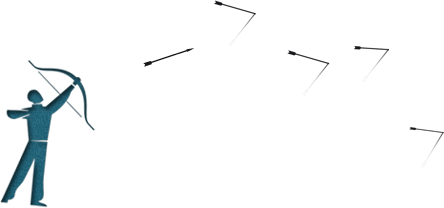
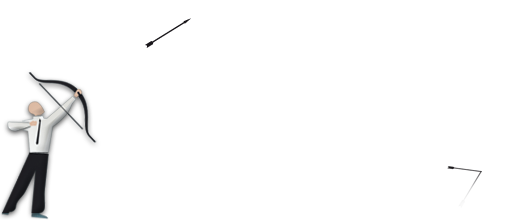
Added new man_and_arrows image in Atreve-te theme

diff --git a/site_files/app/themes/sass/themes/atrevete/frontend-structure.sass b/site_files/app/themes/sass/themes/atrevete/frontend-structure.sass
@@ -60,9 +60,9 @@ div#bg-top-front
 div#man-and-arrows
   background-image: url("/stylesheets/themes/atrevete/images/man_and_arrows.png")
   float: left
-  height: 208px
-  margin: 15px 50px
-  width: 444px
+  height: 220px
+  margin: 10px 40px
+  width: 520px
 
 
 div.secondary-wrapper
